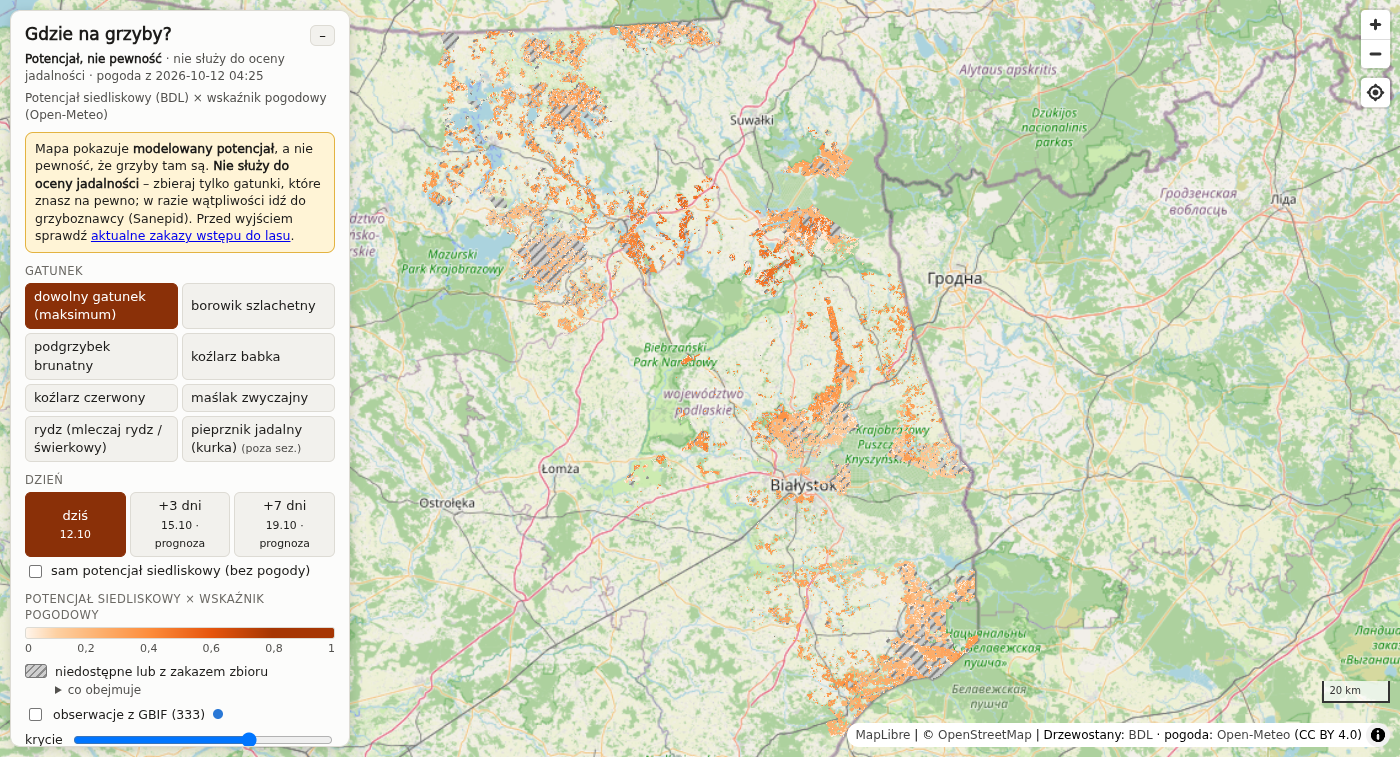
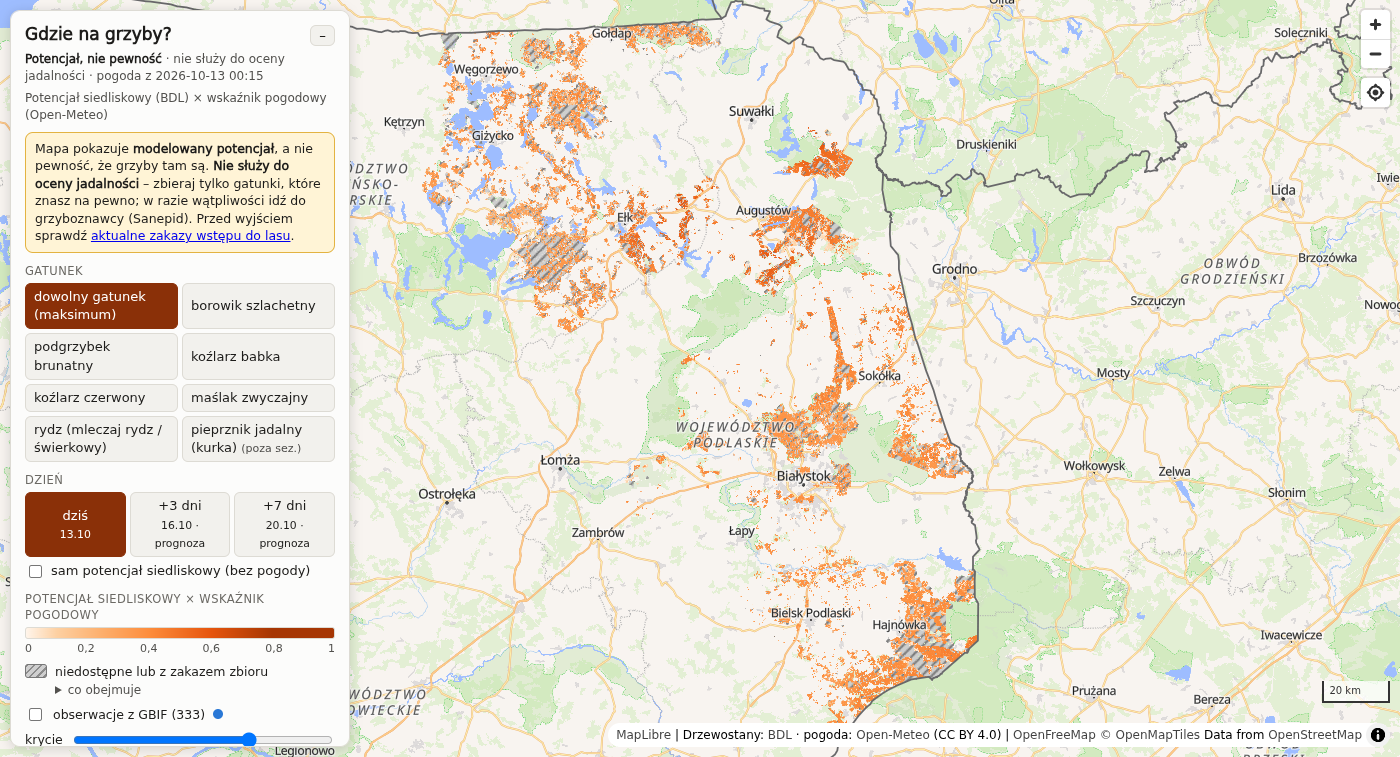
Podkład działający z file://: OpenFreeMap + przełącznik podkładów
tile.openstreetmap.org blokuje kafle dla strony otwartej z dysku (brak
nagłówka Referer, „403 Access blocked”), a CARTO wymaga już klucza API.
Domyślny podkład to wektorowa mapa OSM z OpenFreeMap (bez klucza, CORS,
etykiety po polsku nad warstwą wydzieleń). Do wyboru rastry nakładane na
nią: OpenTopoMap, ortofotomapa Geoportalu (WMS) i oryginalny OSM.

- kafle rastrowe przez protokół ponow:// z ponawianiem (sieć, 404, 429,
  5xx; pusty kafel < min_bajtow), bo WMS Geoportalu losowo gubi żądania
- po 401/403 automatyczny powrót do domyślnego podkładu z komunikatem
- bez stylu wektorowego mapa działa na samych rastrach
- wybór podkładu zapamiętywany w przeglądarce
- „wczoraj” zamiast „1 dni temu” w uwadze o nieaktualnej pogodzie

diff --git a/grzyby/szablon.html b/grzyby/szablon.html
@@ -111,6 +111,8 @@
       <details><summary>co obejmuje</summary><ul id="wykluczeniaLista"></ul></details>
       <label class="opcja wiersz"><input type="checkbox" id="gbif" autocomplete="off"> <span id="gbifOpis">obserwacje z GBIF</span> <span class="sw punkt" aria-hidden="true"></span></label>
       <label class="opcja wiersz">krycie <input type="range" id="krycie" min="0.2" max="1" step="0.05" value="0.75" autocomplete="off" style="flex:1"></label>
+      <label class="opcja wiersz">podkład <select id="podklad" autocomplete="off" style="flex:1; min-width:0"></select></label>
+      <div class="uwaga" id="podkladUwaga" hidden></div>
     </div>
     <div class="meta" id="meta"></div>
   </div>
@@ -218,6 +220,98 @@ function odswiezMape({ popupTez = true } = {}) {
   if (popupTez && popup && popup.isOpen() && popup._i != null) popup.setHTML(popupHtml(popup._i));
 }
 
+// --- podkład --------------------------------------------------------------------
+// Domyślny podkład to wektorowy styl OSM (OpenFreeMap); rastrowe podkłady z META.podklady są
+// nakładane na niego (warstwy wektorowe są wtedy ukryte). Gdy styl wektorowy się nie wczyta,
+// zostają tylko rastry.
+const PODKLAD_KLUCZ = "grzyby.podklad";
+const WEKTOR = { id: "wektor", nazwa: META.styl_bazowy.nazwa, wektor: true };
+let PODKLADY = [WEKTOR, ...META.podklady];
+let warstwyBazy = [], pierwszySymbol;  // warstwy stylu wektorowego i miejsce na nasze warstwy
+let stylGotowy = false;                // do 'load' wybór podkładu tylko się zapamiętuje
+function podkladStartowy() {
+  let id = null;
+  try { id = localStorage.getItem(PODKLAD_KLUCZ); } catch (e) { /* prywatne okno itp. */ }
+  return PODKLADY.find(p => p.id === id) || PODKLADY[0];
+}
+function wypelnijWyborPodkladu() {
+  const sel = document.getElementById("podklad");
+  sel.innerHTML = PODKLADY.map(p => `<option value="${esc(p.id)}">${esc(p.nazwa)}</option>`).join("");
+  sel.value = podklad.id;
+}
+
+async function stylBazowy() {
+  const ctl = new AbortController(), t = setTimeout(() => ctl.abort(), 15000);
+  try {
+    const r = await fetch(META.styl_bazowy.url, { signal: ctl.signal });
+    if (!r.ok) throw new Error("HTTP " + r.status);
+    const s = await r.json();
+    const jez = META.styl_bazowy.jezyk;
+    if (jez) for (const l of s.layers) {  // polskie nazwy, gdy są w kaflach (name:pl)
+      const tf = l.layout && l.layout["text-field"];
+      if (Array.isArray(tf) && JSON.stringify(tf).includes('"name')) l.layout["text-field"] = ["coalesce", ["get", "name:" + jez], tf];
+    }
+    return s;
+  } catch (e) {
+    console.warn("styl wektorowy niedostępny:", e);
+    return null;
+  } finally { clearTimeout(t); }
+}
+// Kafle podkładu idą przez protokół „ponow://”: MapLibre sam nie ponawia nieudanych kafli,
+// a np. WMS Geoportalu przy wielu równoległych żądaniach gubi pojedyncze (404, reset połączenia).
+// Adres: ponow://<próby>/<min_bajtów>/<właściwy URL>
+async function pobierzKafel(params, abort) {
+  const [, proby, minB, url] = params.url.match(/^ponow:\/\/(\d+)\/(\d+)\/(.*)$/);
+  for (let proba = 1; ; proba++) {
+    const ostatnia = proba >= +proby;
+    let res = null;
+    try { res = await fetch(url, { signal: abort.signal }); }
+    catch (e) { if (abort.signal.aborted || ostatnia) throw e; }
+    if (res && res.ok) {
+      const data = await res.arrayBuffer();
+      if (data.byteLength >= +minB || ostatnia) return { data };  // mały = pusty kafel z błędu serwera
+    } else if (res && (ostatnia || ![404, 408, 429, 500, 502, 503, 504].includes(res.status))) {
+      // 401/403 (np. blokada OSM) bez ponawiania – obsłuży je bladPodkladu()
+      const err = new Error(`HTTP ${res.status}: ${url}`);
+      err.status = res.status;
+      throw err;
+    }
+    await new Promise(r => setTimeout(r, 300 * proba * proba));
+  }
+}
+const zrodloPodkladu = p => ({
+  type: "raster", tiles: p.kafle.map(u => `ponow://${p.proby || 3}/${p.min_bajtow || 0}/${u}`),
+  tileSize: p.rozmiar || 256, maxzoom: p.maxzoom, attribution: p.atrybucja,
+});
+let podklad = null, bledyPodkladu = 0;
+
+function ustawPodklad(p, uwaga) {
+  podklad = p;
+  bledyPodkladu = 0;
+  document.getElementById("podklad").value = p.id;
+  try { localStorage.setItem(PODKLAD_KLUCZ, p.id); } catch (e) { /* bez zapamiętywania */ }
+  const u = document.getElementById("podkladUwaga");
+  u.hidden = !uwaga; u.textContent = uwaga || "";
+  if (!stylGotowy) return;  // zastosuje go obsługa 'load' 
+  if (map.getLayer("podklad")) { map.removeLayer("podklad"); map.removeSource("podklad"); }
+  for (const id of warstwyBazy) map.setLayoutProperty(id, "visibility", p.wektor ? "visible" : "none");
+  if (!p.wektor) {
+    map.addSource("podklad", zrodloPodkladu(p));
+    map.addLayer({ id: "podklad", type: "raster", source: "podklad" }, map.getLayer("pot") ? "pot" : pierwszySymbol);
+  }
+}
+
+// serwer odrzuca kafle (np. OSM: 403 „Access blocked” dla strony otwartej z dysku) – wracamy do domyślnego
+function bladPodkladu(e) {
+  console.error(e.error || e);  // własny nasłuch wyłącza domyślne logowanie błędów MapLibre
+  if (e.sourceId !== "podklad") return;
+  const st = e.error && e.error.status;
+  if (st !== 401 && st !== 403) return;
+  const zapas = PODKLADY[0];
+  if (++bledyPodkladu < 3 || podklad.id === zapas.id) return;
+  ustawPodklad(zapas, `Serwer podkładu „${podklad.nazwa}” odrzucił kafle (HTTP ${st}) – przełączono na „${zapas.nazwa}”.`);
+}
+
 function zaznacz(i) {
   if (wybrane != null) map.setFeatureState({ source: "w", id: wybrane }, { sel: false });
   wybrane = i;
@@ -251,6 +345,9 @@ function zbudujPanel() {
   ts.onchange = e => { state.tylkoSiedlisko = e.target.checked; aktualizujPanel(); odswiezMape(); };
   kr.oninput = e => { state.krycie = +e.target.value; odswiezMape({ popupTez: false }); };
   gb.onchange = e => { state.gbif = e.target.checked; odswiezMape({ popupTez: false }); };
+  podklad = podkladStartowy();
+  wypelnijWyborPodkladu();
+  document.getElementById("podklad").onchange = e => ustawPodklad(PODKLADY.find(p => p.id === e.target.value));
 
   const panel = document.getElementById("panel"), zwin = document.getElementById("zwin");
   const ustawZwiniety = z => {
@@ -271,14 +368,15 @@ function zbudujPanel() {
     const n = Math.round((new Date(dzisLokalnie()) - new Date(POGODA.dzis)) / 864e5);
     const el = document.getElementById("nieaktualne");
     el.hidden = false;
-    el.textContent = `Pogoda policzona ${dataPL(POGODA.dzis)}${n > 0 ? ` (${n} dni temu)` : ""} – przyciski dni pokazują daty z tamtego przebiegu. Odśwież: nix run .#pogoda`;
+    const temu = n === 1 ? "wczoraj" : n > 1 ? `${n} dni temu` : "";
+    el.textContent = `Pogoda policzona ${dataPL(POGODA.dzis)}${temu ? ` (${temu})` : ""} – przyciski dni pokazują daty z tamtego przebiegu. Odśwież: nix run .#pogoda`;
   }
   document.getElementById("meta").innerHTML =
     `Pogoda: ${esc(POGODA.zrodlo)}, pobrano ${esc(POGODA.pobrano.replace("T", " "))}. ` +
     (POGODA.horyzonty.some(h => h.prognoza)
       ? `Dni ${POGODA.horyzonty.filter(h => h.prognoza).map(h => "„+" + h.h + "”").join("/")} liczone z prognozy – im dalej, tym mniej pewne.` : "") + "<br>" +
     `Drzewostany: Bank Danych o Lasach (bdl.lasy.gov.pl), stan 2026; dane przetworzone. ` +
-    `Obserwacje: GBIF.org. Podkład: © OpenStreetMap. Mapę zbudowano ${esc(META.zbudowano.replace("T", " "))}.`;
+    `Obserwacje: GBIF.org. Podkład: dane © OpenStreetMap (OpenFreeMap, OpenTopoMap) lub ortofotomapa GUGiK. Mapę zbudowano ${esc(META.zbudowano.replace("T", " "))}.`;
   aktualizujPanel();
 }
 
@@ -395,22 +493,33 @@ async function start() {
     blad("Nie wczytano biblioteki MapLibre z CDN – mapa wymaga połączenia z internetem.");
     return;
   }
+  maplibregl.addProtocol("ponow", pobierzKafel);
+  let styl = await stylBazowy();
+  if (styl) {
+    warstwyBazy = styl.layers.map(l => l.id);
+    pierwszySymbol = (styl.layers.find(l => l.type === "symbol") || {}).id;  // etykiety nad wydzieleniami
+  } else {  // bez stylu wektorowego: tylko rastry
+    PODKLADY = META.podklady.slice();
+    if (podklad.wektor) podklad = PODKLADY[0];
+    wypelnijWyborPodkladu();
+    styl = { version: 8, sources: {}, layers: [] };
+  }
   map = new maplibregl.Map({
     container: "map",
     hash: true,
     bounds: META.granice,
     fitBoundsOptions: { padding: 20 },
     maxZoom: 18,
-    style: {
-      version: 8,
-      sources: {
-        osm: { type: "raster", tiles: [META.podklad.url], tileSize: 256, maxzoom: 19, attribution: META.podklad.atrybucja },
-      },
-      layers: [{ id: "osm", type: "raster", source: "osm" }],
-    },
+    style: styl,
   });
   // 'load' strzela raz – obietnica zapisana przed długim dekodowaniem, żeby go nie przegapić
   const zaladowana = new Promise(r => map.once("load", r));
+  map.once("load", () => { stylGotowy = true; ustawPodklad(podklad, document.getElementById("podkladUwaga").textContent || null); });
+  if (!styl.layers.length) map.once("load", () => {
+    const u = document.getElementById("podkladUwaga");
+    u.hidden = false; u.textContent = "Nie wczytano wektorowej mapy OSM (OpenFreeMap) – dostępne są tylko podkłady rastrowe.";
+  });
+  map.on("error", bladPodkladu);
   map.addControl(new maplibregl.NavigationControl({ showCompass: false }), "top-right");
   map.addControl(new maplibregl.ScaleControl({ unit: "metric" }), "bottom-right");
   map.addControl(new maplibregl.GeolocateControl({ trackUserLocation: true }), "top-right");
@@ -429,12 +538,14 @@ async function start() {
   map.addSource("w", { type: "geojson", data: fc, maxzoom: 14, tolerance: 0.3,
     attribution: 'Drzewostany: <a href="https://www.bdl.lasy.gov.pl/" target="_blank">BDL</a> · pogoda: <a href="https://open-meteo.com/" target="_blank">Open-Meteo</a> (CC BY 4.0)' });
   map.addSource("gbif", { type: "geojson", data: gbifFc, attribution: '<a href="https://www.gbif.org/" target="_blank">GBIF.org</a>' });
+  // nasze warstwy pod etykietami stylu wektorowego (nazwy miejscowości i dróg zostają widoczne)
+  const S = pierwszySymbol;
   map.addLayer({ id: "pot", type: "fill", source: "w", filter: ["==", ["get", "x"], 0],
-    paint: { "fill-color": kolorExpr(), "fill-opacity": state.krycie } });
+    paint: { "fill-color": kolorExpr(), "fill-opacity": state.krycie } }, S);
   map.addLayer({ id: "wyk", type: "fill", source: "w", filter: [">", ["get", "x"], 0],
-    paint: { "fill-pattern": "kreski", "fill-opacity": Math.min(1, state.krycie + 0.1) } });
+    paint: { "fill-pattern": "kreski", "fill-opacity": Math.min(1, state.krycie + 0.1) } }, S);
   map.addLayer({ id: "kontur", type: "line", source: "w", minzoom: 12,
-    paint: { "line-color": "#5b4a3a", "line-opacity": 0.35, "line-width": 0.5 } });
+    paint: { "line-color": "#5b4a3a", "line-opacity": 0.35, "line-width": 0.5 } }, S);
   // podświetlenie przez feature-state – bez przeładowania kafli przy każdym kliknięciu
   map.addLayer({ id: "wybrane", type: "line", source: "w",
     paint: { "line-color": "#111", "line-width": 2.5, "line-opacity": ["case", ["boolean", ["feature-state", "sel"], false], 1, 0] } });

diff --git a/grzyby/mapa.py b/grzyby/mapa.py
@@ -214,7 +214,8 @@ def render(cfg: dict, paths: Paths) -> None:
         "granice": static["granice"],
         "zbudowano": static["zbudowano"],
         "skala": mc["skala"],
-        "podklad": {"url": mc["podklad_url"], "atrybucja": mc["podklad_atrybucja"]},
+        "styl_bazowy": mc["styl_bazowy"],
+        "podklady": mc["podklady"],
         "pogoda_cfg": {
             "okno_opadu": cfg["pogoda"]["opady"]["okno_dni"],
             "okno_temp": cfg["pogoda"]["temperatura"]["okno_dni"],

diff --git a/README.md b/README.md
@@ -44,7 +44,7 @@ ze świeżą, `pogoda` ok. 3 min. Prawie cały czas `pogoda` to dławienie do
 `limit_wywolan_na_minute` = 550, czyli tuż poniżej limitu darmowego API Open-Meteo
 (600 wywołań/min). Każda z 575 lokalizacji z 38 dniami danych liczy się jako ok. 2,7 wywołania. Na zwykłym PC całość jest kilka
 razy szybsza. Mapę otwiera się bezpośrednio z dysku (`file://…/output/mapa.html`). Potrzebny jest
-internet, bo MapLibre GL ładuje się z CDN, a podkład to kafelki OSM. Wymagana przeglądarka
+internet, bo MapLibre GL ładuje się z CDN, a podkład to kafelki z danymi OSM. Wymagana przeglądarka
 z `DecompressionStream` (Chrome/Edge 80+, Firefox 113+, Safari 16.4+).
 
 Bez Nixa: Python ≥ 3.11 i `pip install geopandas pyogrio shapely pyproj pandas numpy requests pyyaml`,
@@ -67,7 +67,21 @@ i prosi o pełne przeliczenie.
 | [Bank Danych o Lasach](https://www.bdl.lasy.gov.pl/) | wydzielenia (geometria, siedlisko, składy gatunkowe, wiek, wysokość, ochronność) | paczki SHP+TXT z linków w `dane.txt`, pobierane do `data/raw/` |
 | [Open-Meteo](https://open-meteo.com/en/docs) (CC BY 4.0) | dzienne opady, Tmin, Tśr; godzinowa wilgotność gleby 3–9 cm | `/v1/forecast`, `past_days=30`, `forecast_days=8`, siatka co 5 km |
 | [GBIF](https://www.gbif.org/) | obserwacje 8 taksonów (rydz = 2 gatunki) | `/v1/occurrence/search` w prostokącie wokół nadleśnictw + 10 km |
-| [OpenStreetMap](https://www.openstreetmap.org/copyright) | podkład mapy | kafelki `tile.openstreetmap.org` |
+| [OpenStreetMap](https://www.openstreetmap.org/copyright) | podkład mapy (dane OSM) | domyślnie wektorowa mapa [OpenFreeMap](https://openfreemap.org) (styl „liberty”), do wyboru rastry: OpenTopoMap, [ortofotomapa Geoportalu](https://www.geoportal.gov.pl) (WMS) i oryginalny OSM |
+
+**Dlaczego domyślnie nie `tile.openstreetmap.org`.** Polityka korzystania z kafelków OSM wymaga
+nagłówka `Referer`, a strona otwarta z dysku (`file://`) go nie wysyła. Serwery OSM odpowiadają
+wtedy kafelkiem „403 Access blocked”, przynajmniej dla części przeglądarek i sieci. Popularne
+CARTO wymaga od 2026 klucza API (kafle „API KEY REQUIRED”). Domyślny podkład to więc OpenFreeMap:
+wektorowe kafle z danymi OSM, bez klucza i bez limitów, z nagłówkami CORS i akceptujące `file://`.
+Etykiety miejscowości i dróg są rysowane nad warstwą wydzieleń. Rastrowe podkłady są nakładane na
+mapę wektorową, której warstwy są wtedy ukryte. Gdy styl OpenFreeMap się nie wczyta, mapa
+korzysta tylko z rastrów i o tym informuje. Oryginalny OSM został w przełączniku: gdy jego serwer
+odrzuci kafle (401/403), mapa sama wraca do domyślnego podkładu. Nieudane kafle rastrowe (błąd
+sieci, 404, 429, 5xx) są ponawiane. WMS Geoportalu bywa niestabilny i losowo zwraca 404 albo pusty
+biały kafel, więc dla ortofotomapy jest 5 prób, a kafel mniejszy niż 3 KB też liczy się jako
+nieudany. Konfiguracja podkładów jest w `mapa.styl_bazowy` i `mapa.podklady` w `config.yaml`,
+a wybór zapamiętuje przeglądarka.
 
 `dane.txt` zawiera 16 z 28 nadleśnictw RDLP Białystok. Sześć z nich leży w woj.
 warmińsko-mazurskim (Borki, Czerwony Dwór, Drygały, Ełk, Giżycko, Gołdap), a brakuje części
@@ -207,7 +221,8 @@ badawcze 296, drzewostany nasienne 68, szkółki 51, plantacje nasienne 19.
 
 ### Krok 5 – mapa
 
-`output/mapa.html` to jeden plik ok. 16 MB. MapLibre GL 4.7.1 ładuje się z cdnjs, podkład to OSM.
+`output/mapa.html` to jeden plik ok. 16 MB. MapLibre GL 4.7.1 ładuje się z cdnjs, a podkład
+(domyślnie wektorowa mapa OSM z OpenFreeMap) wybiera się w panelu.
 Geometria jest uproszczona metodą *coverage simplify* (4 m, sąsiednie wydzielenia zachowują
 wspólne granice), przeliczona do EPSG:4326 i zaokrąglona do 1e-5° (~1 m). Współrzędne są
 zakodowane różnicowo, a cały zestaw danych (~59 MB JSON) skompresowany gzipem do 12 MB i osadzony
@@ -226,7 +241,8 @@ Na mapie są:
 - ostrzeżenie „potencjał, nie pewność” i data pogody widoczne także po zwinięciu panelu, a jeśli
   plik otwarto innego dnia niż dzień liczenia pogody, czerwona uwaga z prośbą o odświeżenie;
 - opcjonalna warstwa obserwacji GBIF dla wybranego gatunku;
-- regulowane krycie i lokalizacja GPS; na telefonie panel startuje zwinięty, a popup jest
+- przełącznik podkładu (OSM z OpenFreeMap, OpenTopoMap z poziomicami, ortofotomapa, oryginalny OSM),
+  regulowane krycie i lokalizacja GPS; na telefonie panel startuje zwinięty, a popup jest
   dolną kartą.
 
 ## Krok 6 – weryfikacja

diff --git a/AGENTS.md b/AGENTS.md
@@ -5,7 +5,7 @@ Wskazówki dla agentów kodujących (Claude Code, Codex itp.) pracujących w tym
 ## Co to jest
 
 Pipeline w Pythonie, który z paczek Banku Danych o Lasach (BDL), pogody z Open-Meteo i obserwacji
-GBIF buduje jeden plik `output/mapa.html` (MapLibre GL z CDN, podkład OSM). Mapa pokazuje dla
+GBIF buduje jeden plik `output/mapa.html` (MapLibre GL z CDN, podkład z danymi OSM). Mapa pokazuje dla
 wydzieleń leśnych potencjał siedliskowy × wskaźnik pogodowy dla 7 gatunków grzybów. Opis modelu
 i wnioski z rozpoznania danych są w `README.md`, a pierwotne wymagania w `PLAN.md`.
 
@@ -76,6 +76,13 @@ i wnioski z rozpoznania danych są w `README.md`, a pierwotne wymagania w `PLAN.
 - Open-Meteo bez klucza ma limity 600 wywołań/min, 5000/h i 10000/dobę. Lokalizacja z ~38 dniami
   danych liczy się jako ~2,7 wywołania. Nie zwiększaj `limit_wywolan_na_minute` powyżej 600
   i nie wyłączaj cache.
+- Podkłady (`mapa.styl_bazowy` – wektorowy OpenFreeMap, `mapa.podklady` – rastry nakładane na
+  niego) muszą działać ze strony otwartej z dysku (`file://`, bez nagłówka `Referer`), wysyłać CORS
+  i nie wymagać klucza. `tile.openstreetmap.org` blokuje takie żądania (403 „Access blocked”),
+  a CARTO wymaga klucza („API KEY REQUIRED” na kaflu, przy statusie 200!). Nowy serwer sprawdź
+  przez `curl -H 'Origin: null'` (nagłówek `access-control-allow-origin`) i obejrzyj pobrany kafel.
+  Kafle rastrowe idą przez protokół `ponow://` (ponawianie w szablonie). Nasze warstwy wstawiamy
+  pod pierwszą warstwę symboli stylu wektorowego.
 - Mapa ma zawsze pokazywać ostrzeżenie, że prezentuje potencjał, a nie pewność, i nie służy do
   oceny jadalności. Nie usuwaj go ani nie osłabiaj.
 - Plik `output/mapa.html` ma mieć mniej niż 20 MB. Po zmianach w payloadzie sprawdź rozmiar
